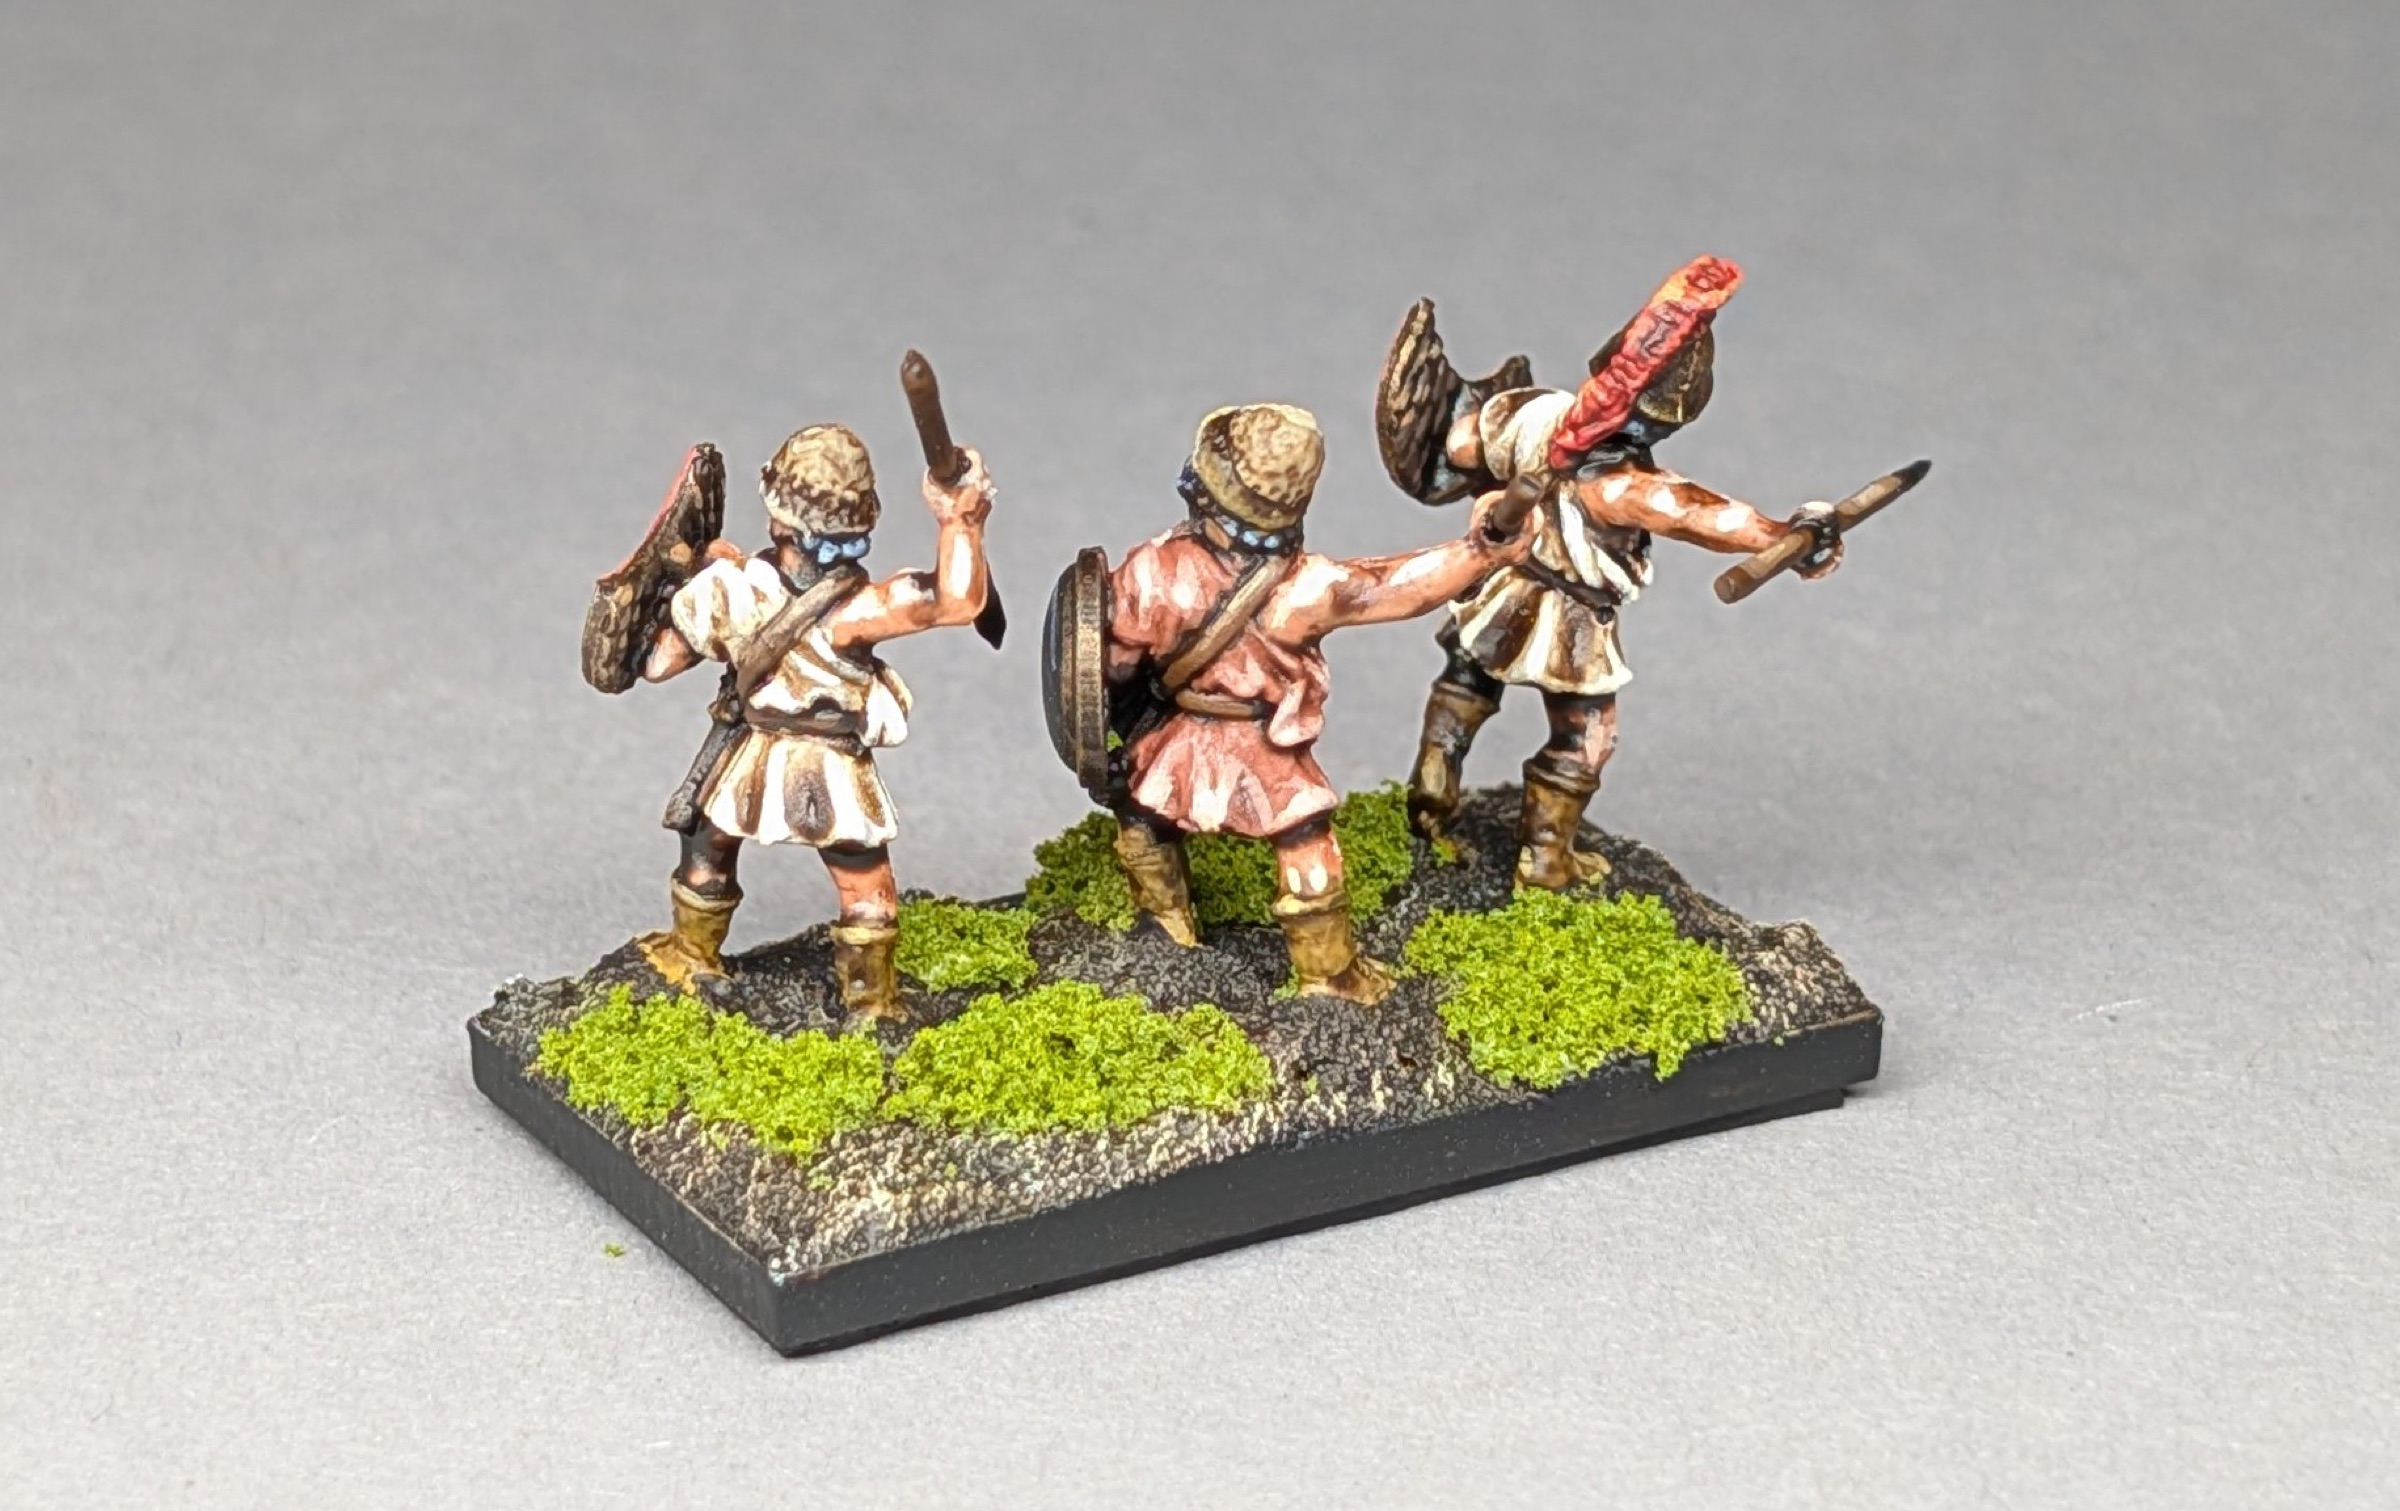
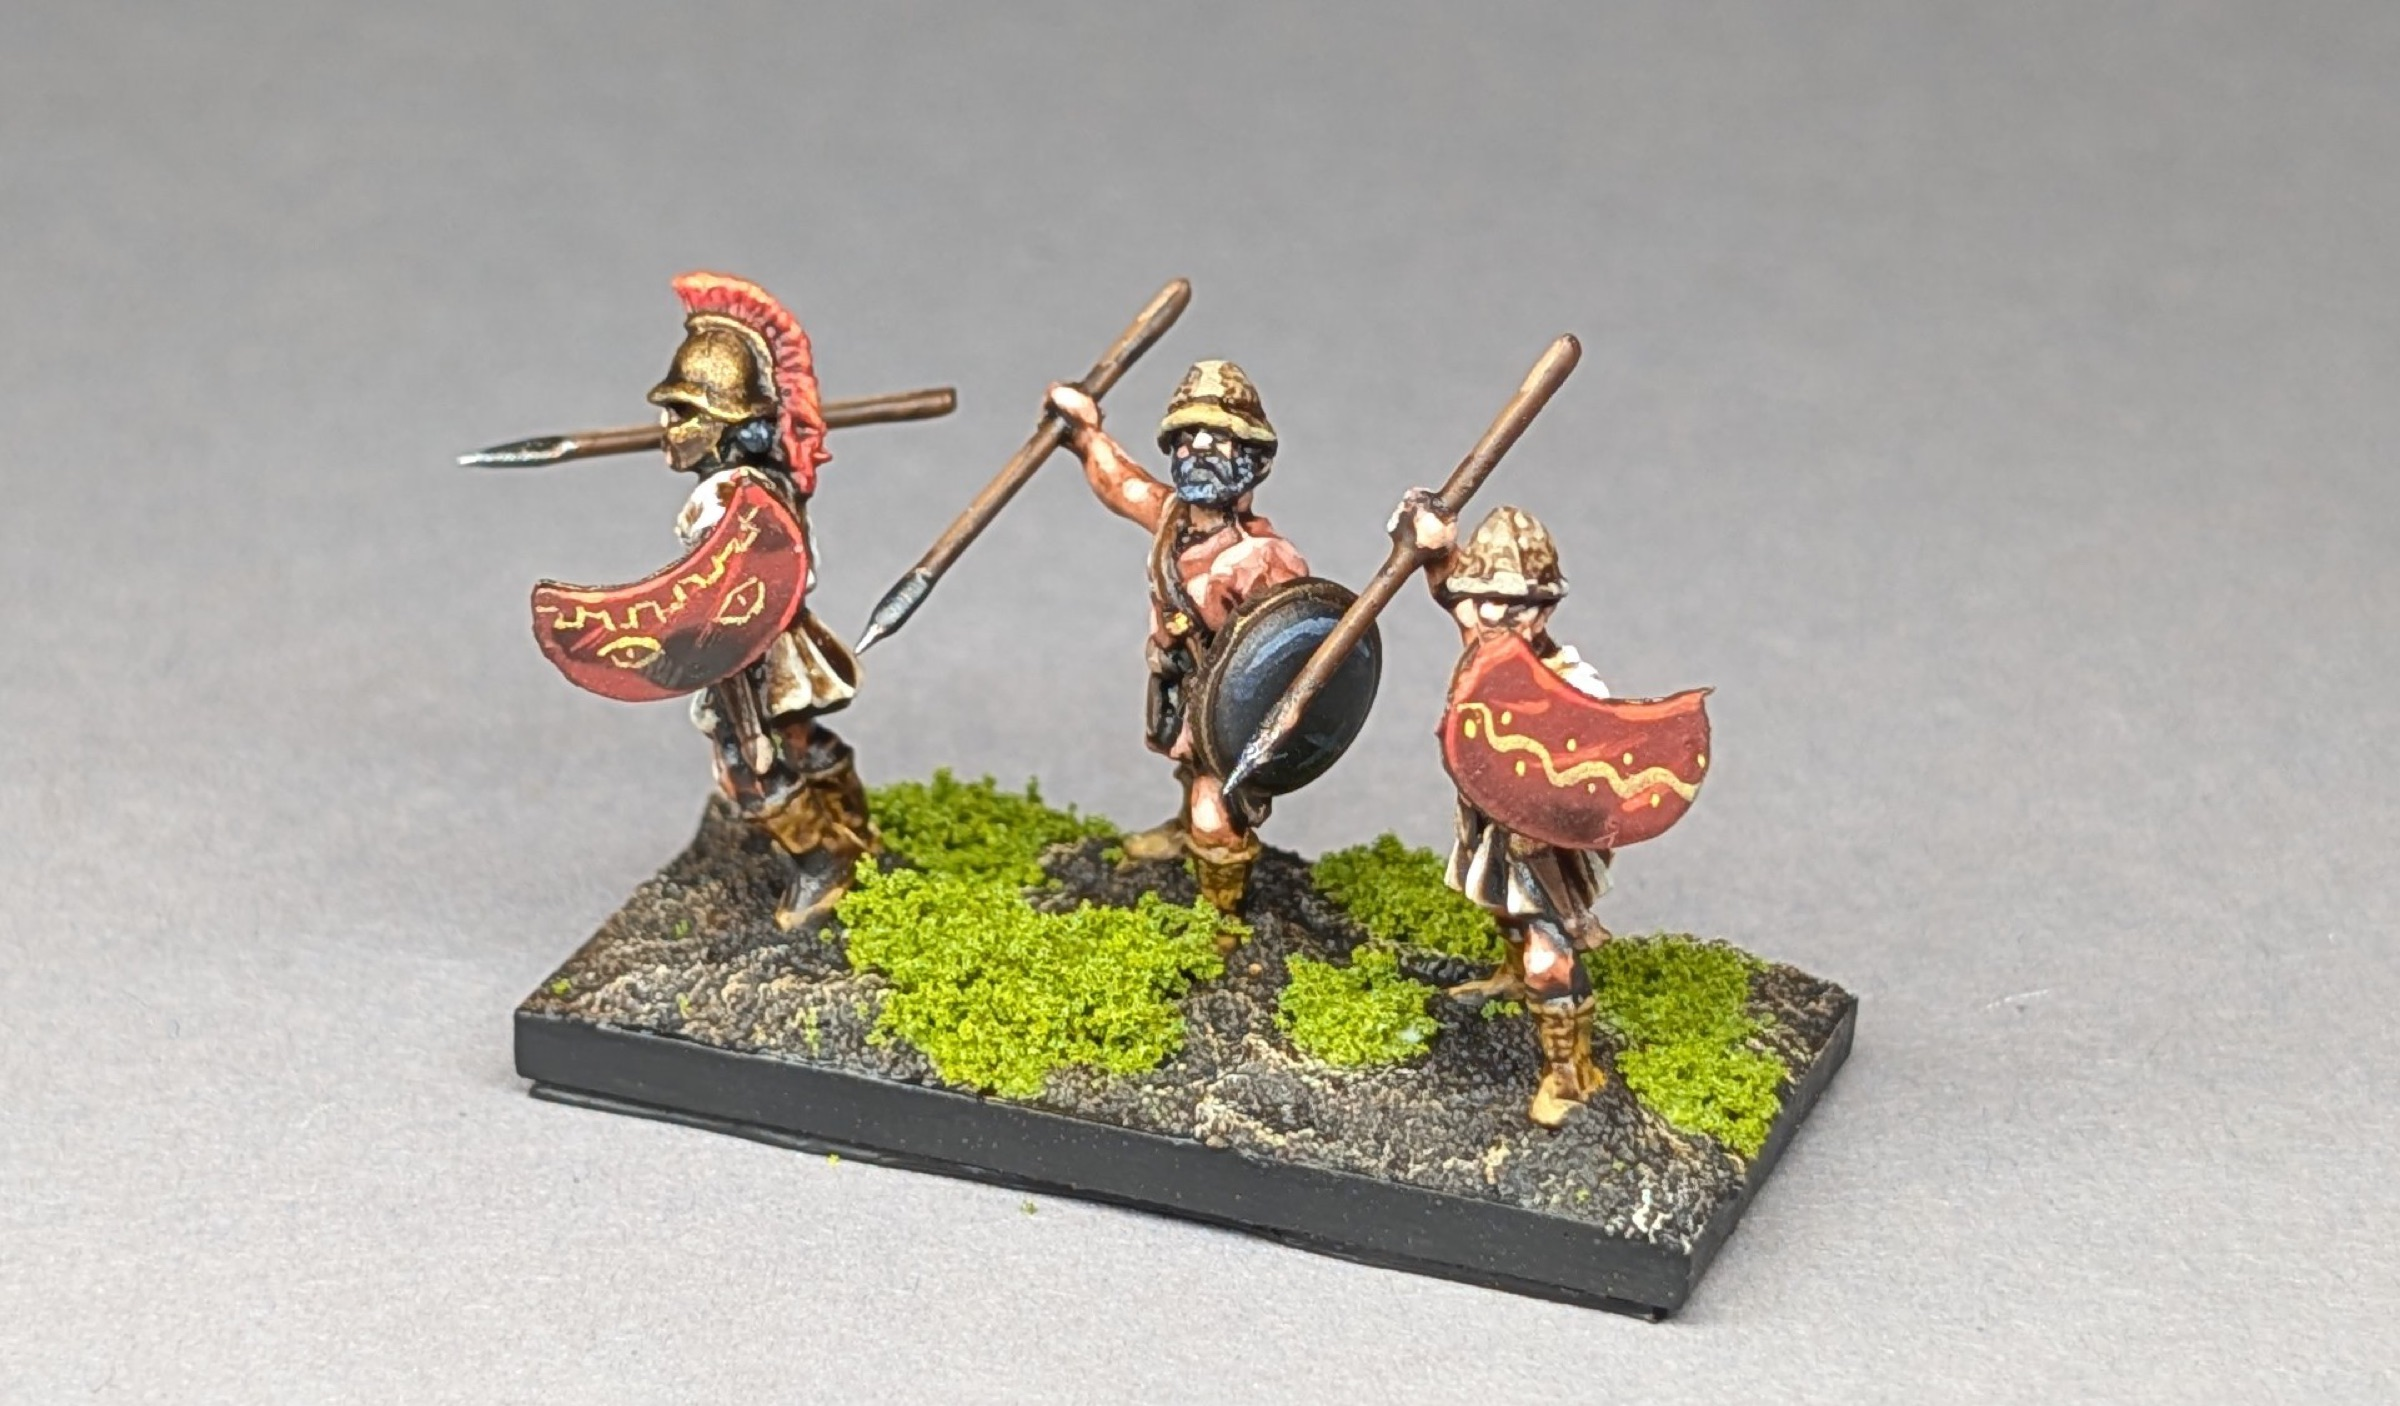
content: rename Vampiric Undead tag to Vampire Counts

Changed region(s): [[0.1875, 0.1529, 0.9375, 0.9481]]

diff --git a/content/posts/2026-05-25-grave-guard/index.md b/content/posts/2026-05-25-grave-guard/index.md
@@ -1,0 +1,11 @@
+---
+title: "Grave Guard"
+date: 2026-05-25
+draft: false
+description: "Grave Guard, painted and based"
+tags: ["Vampire Counts", "28mm", "Fantasy"]
+---
+
+20 Grave Guard by Highland Miniatures.
+
+{{< lightbox-gallery glob="skeleton-guard-*.jpg" >}}

diff --git a/content/posts/2025-09-16-zombies/index.md b/content/posts/2025-09-16-zombies/index.md
@@ -3,7 +3,7 @@ title: "Zombies"
 date: 2025-09-16
 draft: false
 description: "OPR zombies, painted and based"
-tags: ["Vampiric Undead", "28mm", "Fantasy"]
+tags: ["Vampire Counts", "28mm", "Fantasy"]
 ---
 
 20 zombies from the OPR range to start off my Vampire Counts army for The Old World.

diff --git a/content/posts/2025-09-24-bat-horrors/index.md b/content/posts/2025-09-24-bat-horrors/index.md
@@ -3,7 +3,7 @@ title: "Bat Horrors"
 date: 2025-09-24
 draft: false
 description: "Bat Horrors, painted and based"
-tags: ["Vampiric Undead", "28mm", "Fantasy"]
+tags: ["Vampire Counts", "28mm", "Fantasy"]
 ---
 
 3 Vargheist by OPR.

diff --git a/content/posts/2025-09-25-necromancer/index.md b/content/posts/2025-09-25-necromancer/index.md
@@ -3,7 +3,7 @@ title: "Necromancer"
 date: 2025-09-25
 draft: false
 description: "A necromancer, painted and based"
-tags: ["Vampiric Undead", "28mm", "Fantasy"]
+tags: ["Vampire Counts", "28mm", "Fantasy"]
 ---
 
 A necromancer by Highland Miniatures to raise the dead.

diff --git a/content/posts/2025-10-09-blood-knights/index.md b/content/posts/2025-10-09-blood-knights/index.md
@@ -3,7 +3,7 @@ title: "Blood Knights"
 date: 2025-10-09
 draft: false
 description: "Blood Knights, painted and based"
-tags: ["Vampiric Undead", "28mm", "Fantasy"]
+tags: ["Vampire Counts", "28mm", "Fantasy"]
 ---
 
 5 Blood Knights by Highland Miniatures, the hammer of the undead army.

diff --git a/content/posts/2025-10-16-skeleton-lord/index.md b/content/posts/2025-10-16-skeleton-lord/index.md
@@ -3,7 +3,7 @@ title: "Skeleton Lord"
 date: 2025-10-16
 draft: false
 description: "A Skeleton Lord, painted and based"
-tags: ["Vampiric Undead", "28mm", "Fantasy"]
+tags: ["Vampire Counts", "28mm", "Fantasy"]
 ---
 
 A Wight Lord by Highland Miniatures to head the Grave Guard.

diff --git a/content/posts/2025-11-12-direwolves/index.md b/content/posts/2025-11-12-direwolves/index.md
@@ -3,7 +3,7 @@ title: "Direwolves"
 date: 2025-11-12
 draft: false
 description: "Direwolves, painted and based"
-tags: ["Vampiric Undead", "28mm", "Fantasy"]
+tags: ["Vampire Counts", "28mm", "Fantasy"]
 ---
 
 10 direwolves by Highland Miniatures.

diff --git a/content/posts/2025-11-14-vampire-count-on-abyssal-terror/index.md b/content/posts/2025-11-14-vampire-count-on-abyssal-terror/index.md
@@ -3,7 +3,7 @@ title: "Vampire Count on Abyssal Terror"
 date: 2025-11-14
 draft: false
 description: "A Vampire Lord on Winged Terror, painted and based"
-tags: ["Vampiric Undead", "28mm", "Fantasy"]
+tags: ["Vampire Counts", "28mm", "Fantasy"]
 ---
 
 A Vampire Count on Abyssal Terror by OPR.

diff --git a/content/posts/2025-11-19-zombie-peasants-and-warriors/index.md b/content/posts/2025-11-19-zombie-peasants-and-warriors/index.md
@@ -3,7 +3,7 @@ title: "Zombie Peasants & Warriors"
 date: 2025-11-19
 draft: false
 description: "Highlands Miniatures zombie peasants and warriors, painted and based"
-tags: ["Vampiric Undead", "28mm", "Fantasy"]
+tags: ["Vampire Counts", "28mm", "Fantasy"]
 ---
 
 20 zombie peasants and warriors, by Highland Miniatures. Fresh from the ground.

diff --git a/content/posts/2025-12-01-black-knights/index.md b/content/posts/2025-12-01-black-knights/index.md
@@ -3,7 +3,7 @@ title: "Black Knights"
 date: 2025-12-01
 draft: false
 description: "Black Knights, painted and based"
-tags: ["Vampiric Undead", "28mm", "Fantasy"]
+tags: ["Vampire Counts", "28mm", "Fantasy"]
 ---
 
 10 Black Knights, by OPR.

diff --git a/content/posts/2025-12-02-vampire-count/index.md b/content/posts/2025-12-02-vampire-count/index.md
@@ -3,7 +3,7 @@ title: "Vampire Count"
 date: 2025-12-02
 draft: false
 description: "A Vampire Count on foot, painted and based"
-tags: ["Vampiric Undead", "28mm", "Fantasy"]
+tags: ["Vampire Counts", "28mm", "Fantasy"]
 ---
 
 A Vampire Count, by Highland Miniatures, totally inspired in Vlad Țepeş.

diff --git a/content/posts/2025-12-21-werewolves/index.md b/content/posts/2025-12-21-werewolves/index.md
@@ -3,7 +3,7 @@ title: "Werewolves"
 date: 2025-12-21
 draft: false
 description: "Werewolves, painted and based"
-tags: ["Vampiric Undead", "28mm", "Fantasy"]
+tags: ["Vampire Counts", "28mm", "Fantasy"]
 ---
 
 6 werewolves by OPR. Technically not part of the Vampiric Undead in ToW.